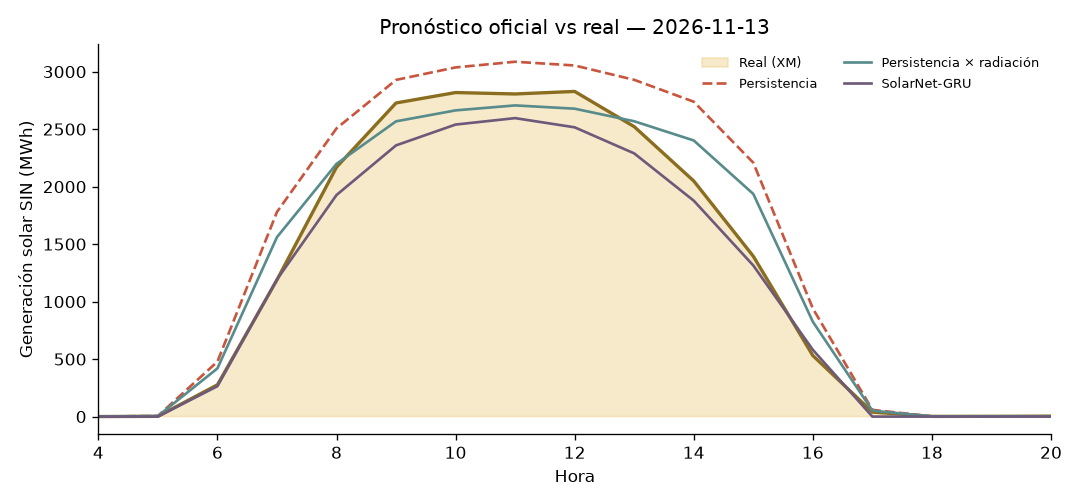
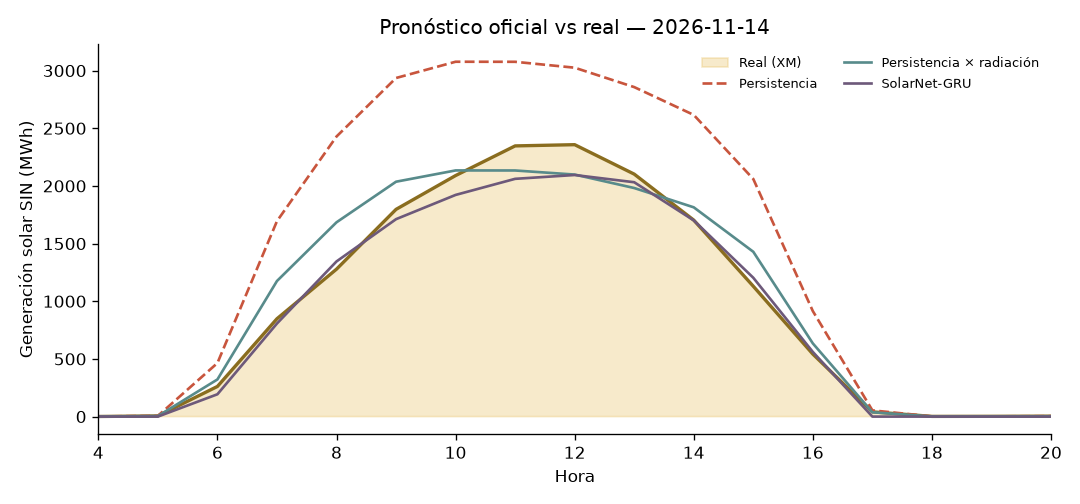
☀ Pronóstico y leaderboard 2026-11-17

diff --git a/LEADERBOARD.md b/LEADERBOARD.md
@@ -1,14 +1,14 @@
 # ☀ Liga de Pronóstico Solar Colombia — Leaderboard
 
-_Actualizado: 2026-11-16 16:49 (hora Colombia) · Métrica: MAE en horas de sol (06–18 h) · Skill = 1 − MAE/MAE_persistencia (positivo = le ganas a la persistencia)_
+_Actualizado: 2026-11-17 15:40 (hora Colombia) · Métrica: MAE en horas de sol (06–18 h) · Skill = 1 − MAE/MAE_persistencia (positivo = le ganas a la persistencia)_
 
 ## 🏆 Liga oficial (predicciones hechas ANTES de conocer el dato real)
 
 | # | Modelo | Autor | Días | MAE (MWh) | nMAE | Skill vs persistencia |
 |---|---|---|---|---|---|---|
-| 🥇 | SolarNet-GRU | profe | 24 | 233.8 | 16.0% | +28.9% |
-| 🥈 | Persistencia × radiación | profe | 24 | 260.8 | 17.8% | +29.1% |
-| 🥉 | Persistencia | profe | 24 | 409.7 | 28.0% | — |
+| 🥇 | SolarNet-GRU | profe | 25 | 228.1 | 15.7% | +31.2% |
+| 🥈 | Persistencia × radiación | profe | 25 | 257.1 | 17.7% | +30.9% |
+| 🥉 | Persistencia | profe | 25 | 420.1 | 28.9% | — |
 
 ![último día](resultados/ultimo_dia.png)
 
